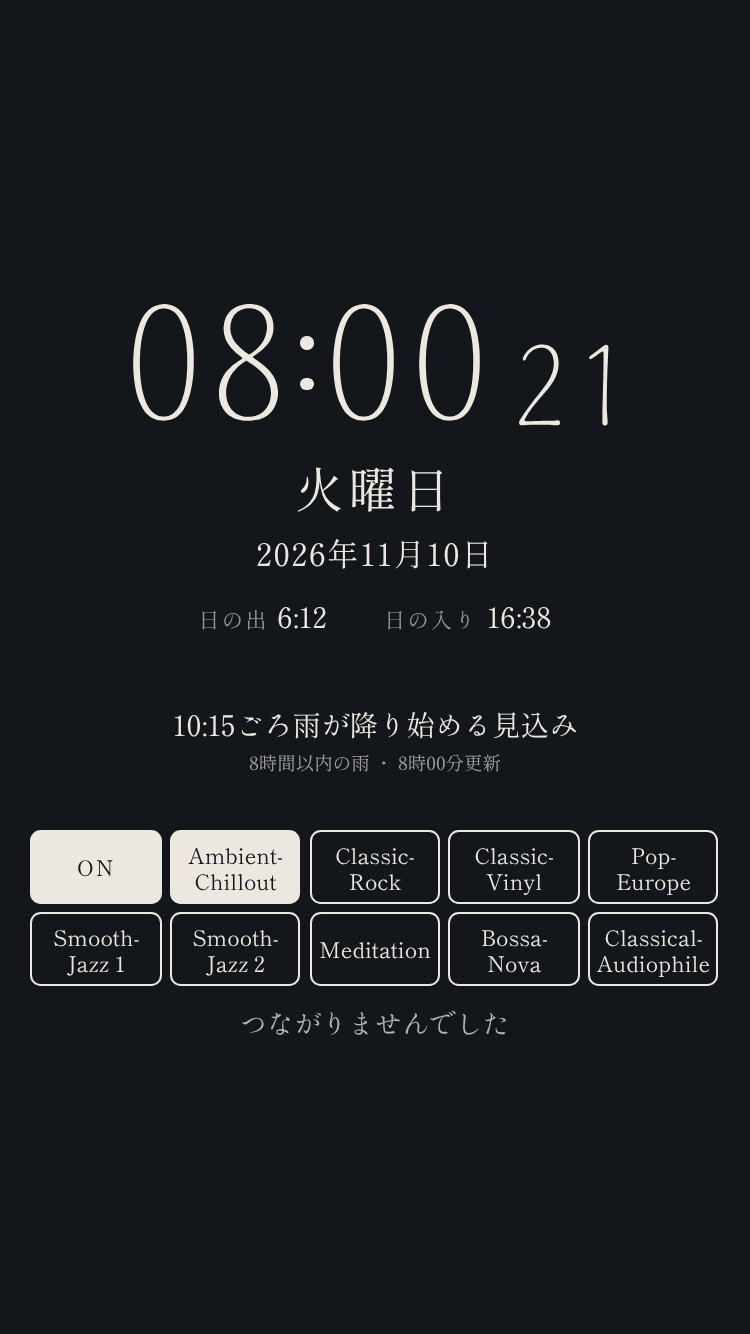
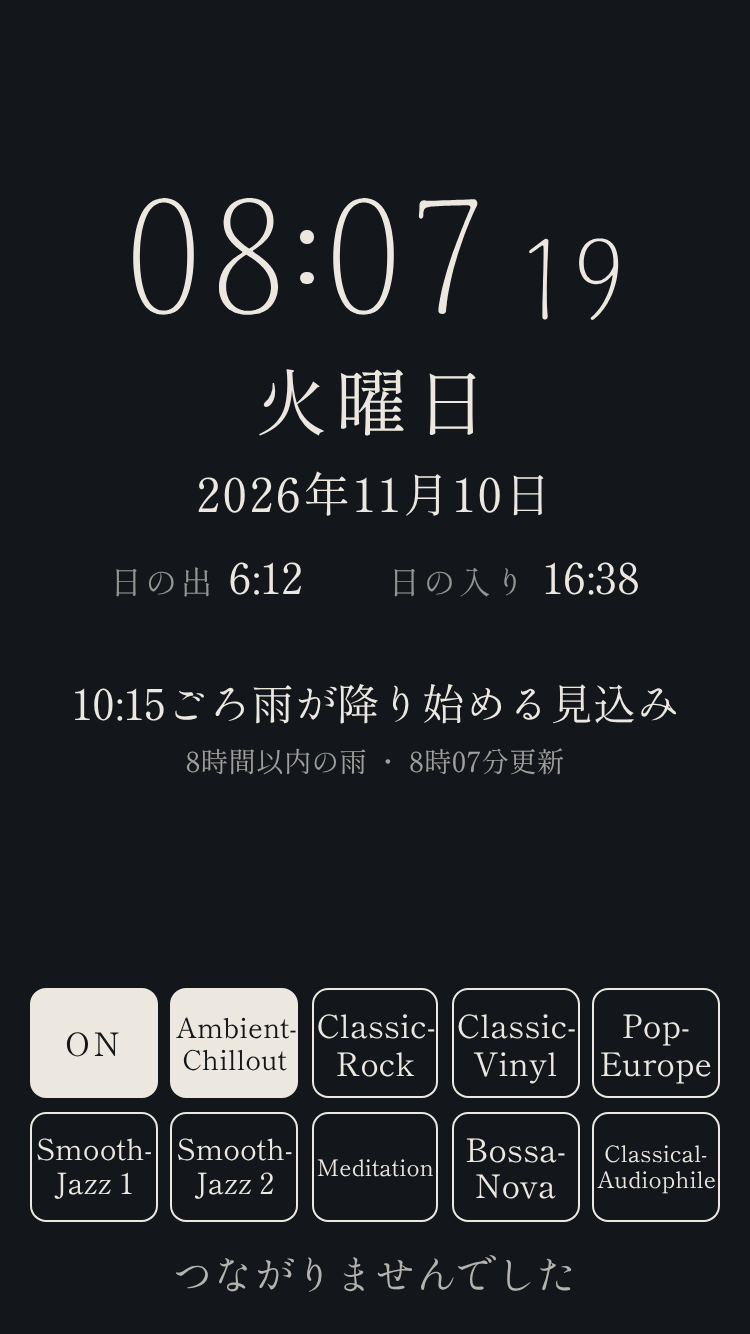
Still Here: 縦向きでラジオを画面の下に置き、時刻以外の文字を150%にする
Claude-Session: https://claude.ai/code/session_01NVsEU5YZ5BtdUQZHyMLdES

diff --git a/still-here/index.html b/still-here/index.html
@@ -65,8 +65,9 @@
     padding: max(16px, env(safe-area-inset-top)) max(16px, env(safe-area-inset-right))
              max(16px, env(safe-area-inset-bottom)) max(16px, env(safe-area-inset-left));
   }
+  /* 時刻以外の文字の倍率(遠くから読めるよう 150%) */
+  :root { --k: 1.5; }
   .col { display: flex; flex-direction: column; align-items: center; width: 100%; }
-  .col + .col { margin-top: 5vh; }
 
   /* 時刻: 数字は travelフォント(SVG)。桁ごとに固定幅の枠に入れて中央揃え */
   .time { display: flex; align-items: flex-end; height: var(--T); }
@@ -78,49 +79,56 @@
   .sec { display: flex; height: calc(var(--T) * 0.7); margin-left: calc(var(--T) * 0.12); }
   .sec .slot { width: calc(var(--T) * 0.42); }
 
-  .weekday { font-size: calc(var(--T) * 0.34); margin-top: calc(var(--T) * 0.12); letter-spacing: 0.1em; }
-  .date { font-size: calc(var(--T) * 0.22); margin-top: calc(var(--T) * 0.06); letter-spacing: 0.05em; }
-  .sun { display: flex; margin-top: calc(var(--T) * 0.12); font-size: calc(var(--T) * 0.2); }
+  .weekday { font-size: calc(var(--T) * 0.34 * var(--k)); margin-top: calc(var(--T) * 0.12); letter-spacing: 0.1em; }
+  .date { font-size: calc(var(--T) * 0.22 * var(--k)); margin-top: calc(var(--T) * 0.06); letter-spacing: 0.05em; }
+  .sun { display: flex; margin-top: calc(var(--T) * 0.12); font-size: calc(var(--T) * 0.2 * var(--k)); }
   .sun div + div { margin-left: 2em; }
   .label { opacity: 0.6; font-size: 0.75em; margin-right: 0.4em; letter-spacing: 0.1em; }
 
   /* 雨予報(文字のみ) */
-  .rain { text-align: center; max-width: 30em; }
-  .rain .main { font-size: calc(var(--T) * 0.2); line-height: 1.5; }
-  .rain .sub { font-size: calc(var(--T) * 0.13); opacity: 0.65; margin-top: 0.3em; line-height: 1.5; }
+  .rain { text-align: center; width: 100%; margin-top: 5vh; }
+  .rain .main { font-size: calc(var(--T) * 0.2 * var(--k)); line-height: 1.4; }
+  .rain .sub { font-size: calc(var(--T) * 0.13 * var(--k)); opacity: 0.65; margin-top: 0.3em; line-height: 1.5; }
 
   /* ラジオ: 背景・文字色は他と同じ。選ばれたボタンだけ色を反転 */
-  .radio { margin-top: 4vh; width: 100%; max-width: 34em; font-size: calc(var(--T) * 0.13); }
+  .radio { margin-top: 4vh; width: 100%; font-size: calc(var(--T) * 0.13 * var(--k)); }
   /* 10個のボタン(先頭が ON/OFF、残り9個が局)。すべて同じ大きさで 5×2 に並べる */
   .buttons { display: flex; flex-wrap: wrap; margin: -0.2em; }
   .radio button {
     font: inherit; color: var(--fg); background: transparent;
     border: 1px solid var(--fg); border-radius: 0.5em;
-    width: calc(20% - 0.4em); height: 3.4em; margin: 0.2em; padding: 0 0.15em;
+    width: calc(20% - 0.4em); height: 3.4em; margin: 0.2em; padding: 0 0.1em;
     display: flex; align-items: center; justify-content: center; text-align: center;
-    font-size: 0.8em; line-height: 1.2; overflow: hidden; overflow-wrap: break-word;
+    font-size: 0.8em; line-height: 1.15; overflow: hidden; white-space: normal;
     cursor: pointer;
     -webkit-tap-highlight-color: transparent; -webkit-appearance: none; appearance: none;
   }
   .radio button.on { background: var(--fg); color: var(--bg); }
   .radio .power { letter-spacing: 0.1em; }
+  /* 名前は .fit の中に入れ、ボタンに収まらない時だけ app.js(fitLabels)が字を小さくする */
+  .radio .fit { display: block; max-width: 100%; }
   .radio .state { text-align: center; margin-top: 0.6em; opacity: 0.75; min-height: 1.4em; }
 
-  /* 縦向き: 時刻の大きさは横幅で決める */
+  /* 縦向き: 時刻〜雨予報を上の空きの中央に、ラジオ(ボタン10個と状態の1行)を画面の下に置く */
   @media (orientation: portrait) {
-    :root { --T: min(19vw, 13vh); }
-    /* 縦向きのボタンは、余白を除いた画面幅いっぱいを使う */
-    .radio { max-width: none; font-size: 3.6vw; }
+    :root { --T: min(19vw, 12vh); }
+    main { justify-content: flex-start; }
+    .col { margin-top: auto; }
+    .radio { margin-top: auto; padding-top: 4vh; font-size: calc(3.6vw * var(--k)); }
   }
   /* 横向き: 左に時刻〜日の出・日の入り、右に雨予報・ラジオ */
   @media (orientation: landscape) {
     :root { --T: min(11vw, 24vh); }
-    main { flex-direction: row; }
-    .col { width: 50%; }
-    .col + .col { margin-top: 0; margin-left: 2vw; }
-    .radio { font-size: calc(var(--T) * 0.15); }
-    .rain .main { font-size: calc(var(--T) * 0.24); }
-    .rain .sub { font-size: calc(var(--T) * 0.15); }
+    /* 左の列に時刻〜日の出・日の入り、右の列の中央に雨予報とラジオ */
+    main {
+      display: grid; grid-template-columns: 1fr 1fr; grid-template-rows: 1fr auto auto 1fr;
+      grid-column-gap: 3vw; align-items: center; justify-items: center;
+    }
+    .col { grid-column: 1; grid-row: 1 / 5; }
+    .rain { grid-column: 2; grid-row: 2; margin-top: 0; }
+    .radio { grid-column: 2; grid-row: 3; font-size: calc(var(--T) * 0.15 * var(--k)); }
+    .rain .main { font-size: calc(var(--T) * 0.24 * var(--k)); }
+    .rain .sub { font-size: calc(var(--T) * 0.15 * var(--k)); }
   }
   .debug { position: fixed; left: 4px; bottom: 4px; font: 11px monospace; opacity: 0.6; }
 </style>
@@ -136,19 +144,17 @@
       <div><span class="label">日の入り</span><span id="sunset">--:--</span></div>
     </div>
   </div>
-  <div class="col">
-    <section class="rain" aria-label="8時間以内の雨">
+  <section class="rain" aria-label="8時間以内の雨">
       <div class="main" id="rain-main">雨予報を取得しています…</div>
       <div class="sub" id="rain-sub"></div>
-    </section>
-    <section class="radio" aria-label="ラジオ">
+  </section>
+  <section class="radio" aria-label="ラジオ">
       <div class="buttons" id="buttons">
         <button type="button" class="power" id="power" aria-pressed="false">OFF</button>
       </div>
       <div class="state" id="radio-state"></div>
       <audio id="audio" preload="none"></audio>
     </section>
-  </div>
 </main>
 <noscript><p style="text-align:center">JavaScript を有効にしてください。</p></noscript>
 <script src="app.js"></script>

diff --git a/still-here/app.js b/still-here/app.js
@@ -271,6 +271,20 @@
     p.setAttribute('aria-pressed', isOn ? 'true' : 'false');
   }
 
+  // 名前がボタンに収まらない時だけ、その名前の字を小さくする(単語の途中では折り返さない)。
+  // 文字は大きく(150%)したいが、Classical-Audiophile などは5列のボタンに入りきらないため。
+  function fitLabels() {
+    buttons.forEach(function (b) {
+      var f = b.querySelector('.fit');
+      var scale = 1;
+      f.style.fontSize = '';
+      while (scale > 0.5 && (f.scrollWidth > b.clientWidth - 2 || f.offsetHeight > b.clientHeight - 2)) {
+        scale -= 0.05;
+        f.style.fontSize = scale + 'em';
+      }
+    });
+  }
+
   function connect() {
     var st = STATIONS[selected];
     setState('接続中…');
@@ -291,7 +305,7 @@
       var b = document.createElement('button');
       b.type = 'button';
       // ハイフンの後ろで折り返せるようにする(長い名前が2行になる)
-      b.innerHTML = st.label.replace(/-/g, '-<wbr>');
+      b.innerHTML = '<span class="fit">' + st.label.replace(/-/g, '-<wbr>') + '</span>';
       b.title = st.name;
       b.addEventListener('click', function () {
         selected = i;
@@ -311,6 +325,9 @@
     audio.addEventListener('waiting', function () { if (isOn) setState('接続中…'); });
     audio.addEventListener('error', function () { if (isOn && audio.getAttribute('src')) setState('つながりませんでした'); });
     renderRadio();
+    fitLabels();
+    window.addEventListener('resize', function () { setTimeout(fitLabels, 100); });
+    if (document.fonts && document.fonts.ready) document.fonts.ready.then(fitLabels);
   }
 
   // ---- 起動 --------------------------------------------------------------

diff --git a/still-here/sw.js b/still-here/sw.js
@@ -8,7 +8,8 @@ const CACHE_PREFIX = 'uniiqcode-still-here-';
 // v1(2026年11月): 初版。
 // v1→v2(2026年11月): 文字を clock01 と同じ Shippori Mincho にした(fonts/ を追加)。
 // v2→v3(2026年11月): ラジオを9局にし、ボタンを ON/OFF+9局の10個(5×2・同じ大きさ・小分類名)にした。
-const CACHE_NAME = CACHE_PREFIX + 'v3';
+// v3→v4(2026年11月): 縦向きでラジオを画面の下に置き、時刻以外の文字を150%にした。
+const CACHE_NAME = CACHE_PREFIX + 'v4';
 
 const APP_SHELL = [
   './', 'index.html', 'app.js', 'manifest.json',
